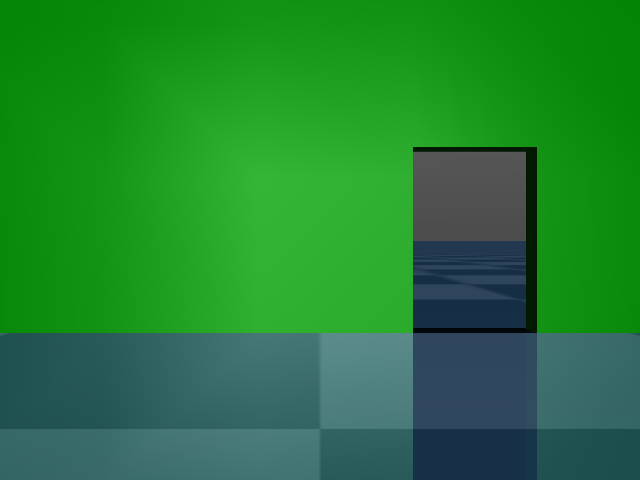
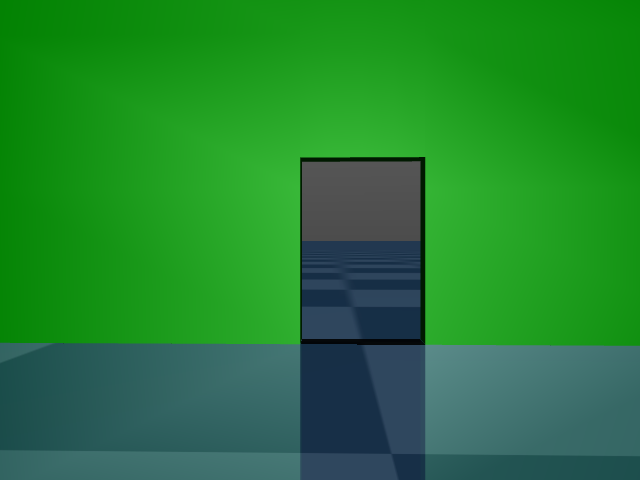
Upload car_sim_v2.py

Changed region(s): [[0.0, 0.2812, 1.0, 1.0], [0.2188, 0.875, 0.4375, 0.9688], [0.0, 0.875, 0.0625, 0.9375]]

diff --git a/car_sim_v2.py b/car_sim_v2.py
@@ -98,7 +98,24 @@ if __name__ == '__main__':
 
     m = mujoco.MjModel.from_xml_path(ModelPath)
     d = mujoco.MjData(m)
-    renderer = mujoco.Renderer(m, 480, 640)
+
+    # Make all the things needed to render a simulated camera
+    gl_ctx = mujoco.GLContext(640, 480)
+    gl_ctx.make_current()
+
+    scn = mujoco.MjvScene(m, maxgeom=100)
+
+    cam = mujoco.MjvCamera()
+    cam.type = mujoco.mjtCamera.mjCAMERA_FIXED
+    cam.fixedcamid = mujoco.mj_name2id(m, mujoco.mjtObj.mjOBJ_CAMERA, 'fixater')
+
+    vopt = mujoco.MjvOption()
+    pert = mujoco.MjvPerturb()
+
+    ctx = mujoco.MjrContext(m, mujoco.mjtFontScale.mjFONTSCALE_150)
+    mujoco.mjr_setBuffer(mujoco.mjtFramebuffer.mjFB_OFFSCREEN, ctx)
+
+    viewport = mujoco.MjrRect(0, 0, 640, 480)
 
     fig = plt.figure(figsize=(8, 6))
     ax = fig.add_subplot()
@@ -127,13 +144,11 @@ if __name__ == '__main__':
         i = 0
         while viewer.is_running():  # and time.time() - start < 30:
             step_start = time.time()
-            # if i%100==0:
-            #     vels = node.run_keyboard_control()
-            #     print(vels)
-            # i+=1
+
             if d.time > start_time and vels[1] == 0:
                 vels = (0, 3.0, 0)
                 started = True
+
             if first_switch and (d.time-start_time) > switch_time:
                 first_switch = False
                 vels = (0, -1*vels[1], 0)
@@ -143,14 +158,22 @@ if __name__ == '__main__':
                 if (d.time-start_time) > iswitch*switch_time:
                     vels = (0, -1*vels[1], 0)
                     iswitch += 1
-            # mujoco.set_mjcb_control(lambda m, d: node.vel_controller(m, d, vels))
 
             mujoco.mj_step(m, d)
             acc_data = d.sensor('imu').data.copy()  # ndarray
             if d.time >= frame_period*frame_count:
                 frame_count += 1
-                renderer.update_scene(d, camera="fixater")
-                cam_img = renderer.render()
+                
+                # Render the simulated camera
+                mujoco.mjv_updateScene(m, d, vopt, pert, cam, mujoco.mjtCatBit.mjCAT_ALL, scn)
+                mujoco.mjr_render(viewport, scn, ctx)
+                cam_img = np.empty((480, 640, 3), dtype=np.uint8)
+                mujoco.mjr_readPixels(cam_img, None, viewport, ctx)
+
+                # OpenGL renders with inverted y axis
+                cam_img = cv2.flip(cam_img, 0)
+
+                # Show the simulated camera image
                 cv2.imshow('fixation', cv2.cvtColor(cam_img, cv2.COLOR_RGB2BGR))
                 cv2.waitKey(1)
 
@@ -180,10 +203,10 @@ if __name__ == '__main__':
             started_prev = started
 
     acc_data = np.array(acc_data)
-    plt.imshow(cam_img)
-    im = Image.fromarray(cam_img)
-    im.save("test_img.png")
-    plt.show(block=True)
+    # plt.imshow(cam_img)
+    # im = Image.fromarray(cam_img)
+    # im.save("test_img.png")
+    # plt.show(block=True)
 
     plt.plot(solvers[0].acc_history)
     plt.show()
